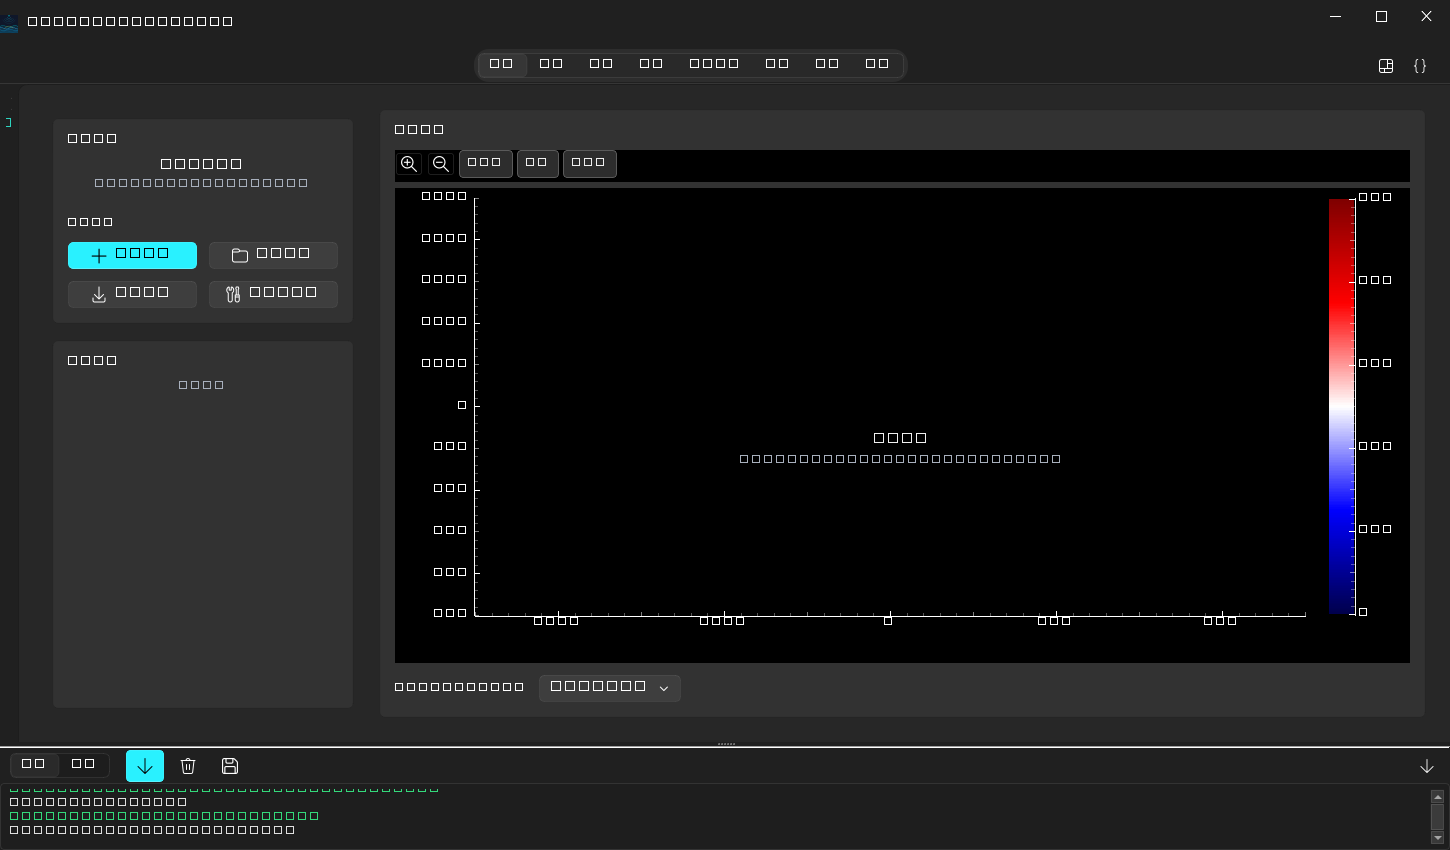
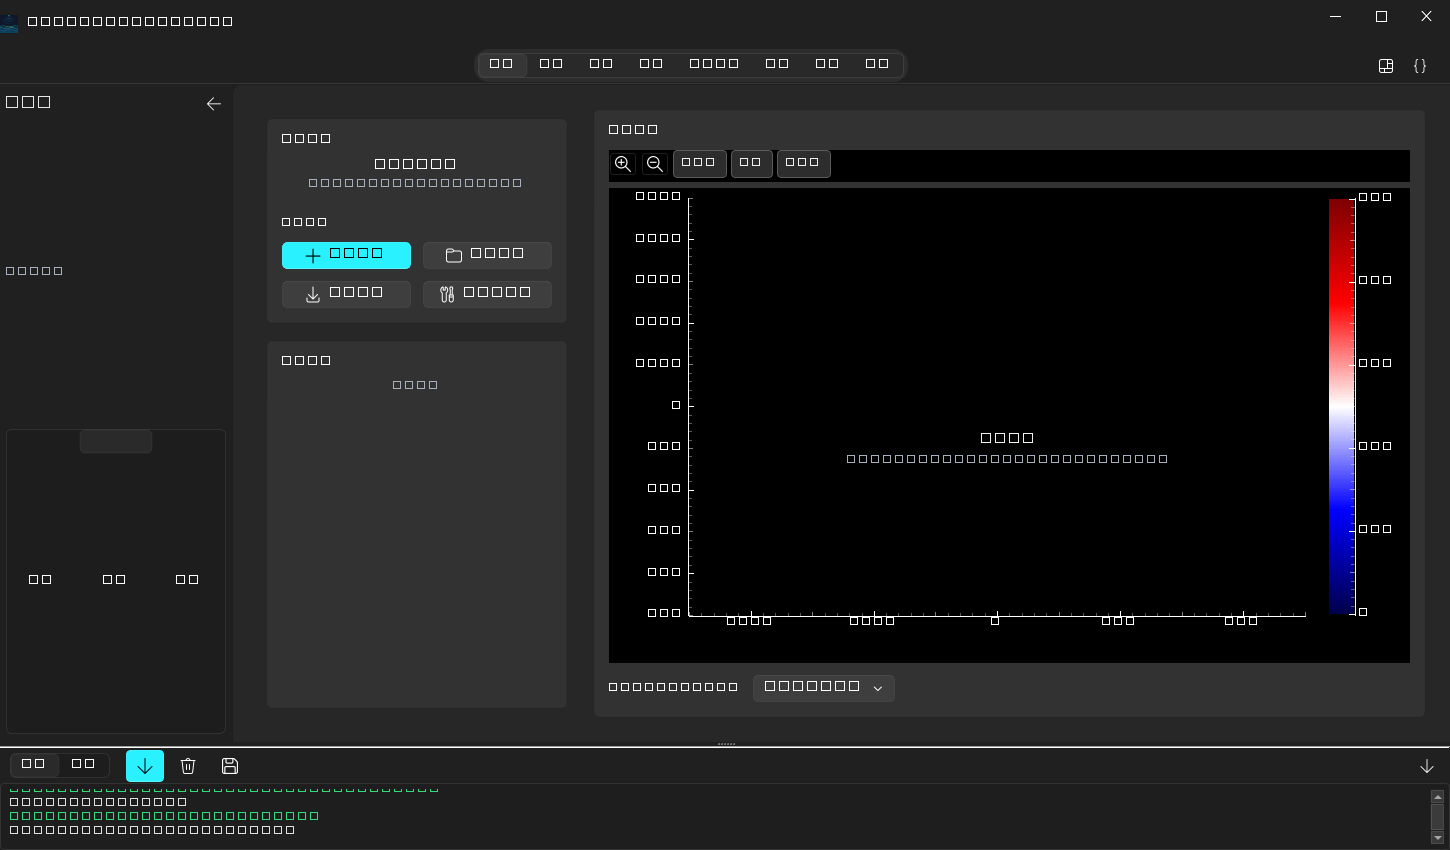
fix(bscan): 默认显示比例 square→free，消除画布大片留白
用户报告「bscan 目前总是有很多占空的地方」。实测三种比例模式，发现
square 是留白根源，且它连「保真」都做不到：

  square  数据占画布 43.3%（留白 56.7%），x/y 拉伸比 0.50
  free    数据占画布 85.9%（留白 14.1%），x/y 拉伸比 1.09
  cell    数据占画布 93.7%（留白  6.3%）

square 把 4:1 的真实剖面强行压成 1:1，双曲线形状失真——在「占空」与
「保真」两项都最差。旧注释「B-Scan 习惯方形比例」是想当然，量出来站不住。

改动：
- BScanView 默认 default_aspect 改 'free'，并注明实测数据；
- 新增 set_aspect_mode()/aspect_mode() 与 sig_aspect_changed 信号；
  三处 fit 方法加 notify 参数，用户切换才发射（数据驱动重排不发射）；
- 工具条比例钮加「当前生效」高亮（加粗 + 强调色），一眼看出是哪种；
- 新增设置键 bscan_aspect_mode，默认 free；
- 恢复/持久化集中在 main_window._wire_bscan_aspect（四页共用，避免漏页）；
  恢复与数据重排均 notify=False，杜绝「读设置→写设置」回环；
- PanelStateMixin 补 _persist_setting/_restore_setting 通用 helper，
  收敛各页重复的写盘逻辑；
- 新增 tests/test_bscan_aspect.py 锁定默认值、切换 API 与信号时机（13 项）；
- docs/ui-style.md 记录三模式实测表与持久化规则；
- 重新生成 18 张文档截图（B-Scan 显示已变，旧图作废）。

验证：ruff 通过；全量 970 passed / 6 skipped；--smoke 9 张通过；
持久化全链路探针（默认 free → 切换写盘 → 重开恢复 → 无回环）全部 OK。

diff --git a/ui/widgets/bscan_view.py b/ui/widgets/bscan_view.py
@@ -28,7 +28,7 @@ from PyQt6.QtWidgets import QLabel
 from qfluentwidgets import FluentIcon as FIF, PushButton, ToolButton
 
 from ui import constants
-from ui.theme_helpers import control_palette
+from ui.theme_helpers import accent_color, control_palette
 from ui.widgets._colormap_data import COLORMAP_DATA
 from ui.widgets.context_menus import (RoundMenu, add_action,
                                       add_checkable_submenu, make_menu)
@@ -134,16 +134,21 @@ class BScanView(GraphicsViewBase, QWidget):
 
     sig_point_picked = pyqtSignal(int, int)
     sig_colormap_changed = pyqtSignal(str)
+    # 用户手动切换显示比例时发射（'free'/'square'/'cell'），页面据此持久化
+    sig_aspect_changed = pyqtSignal(str)
 
     def __init__(self, parent=None, *, with_colorbar: bool = True,
-                 default_aspect: str = 'square'):
+                 default_aspect: str = 'free'):
         super().__init__(parent)
         self._pick_enabled = False
         self._image_shape = None  # (traces, samples) 显示坐标系尺寸
-        # 显示比例策略：'square' 近似方形（默认，B-Scan 习惯比例）/
-        # 'free' 拉伸铺满 / 'cell' 数据格 1:1
+        # 显示比例策略：'free' 拉伸铺满（默认——实测占空比 85.9%，x/y 拉伸比
+        # 1.09 几乎不畸变）/ 'square' 数据盒锁正方形（占空比仅 43.3%，且把
+        # 4:1 的真实剖面压成 1:1、双曲线形状失真）/ 'cell' 数据格 1:1。
+        # 旧默认 'square' 是"B-Scan 习惯比例"的想当然，实测两项指标都最差，
+        # 2026-09-22 改默认为 'free'；方形仍保留在工具条/右键菜单随时可切。
         self._aspect_mode = default_aspect if default_aspect in (
-            'square', 'free', 'cell') else 'square'
+            'square', 'free', 'cell') else 'free'
         self._cmap_name = constants.DEFAULT_COLORMAP
         # 十字光标读数状态（PreviewBundle 物理轴元数据）
         self._crosshair_on = True
@@ -234,6 +239,8 @@ class BScanView(GraphicsViewBase, QWidget):
 
         self._glw.scene().sigMouseClicked.connect(self._on_mouse_clicked)
         self._glw.scene().sigMouseMoved.connect(self._on_mouse_moved)
+        # 工具条按钮的当前生效态（构造期就同步一次，不等首次点击）
+        self._sync_aspect_buttons(self._aspect_mode)
         from qfluentwidgets import isDarkTheme
         self.apply_theme(isDarkTheme())
 
@@ -256,13 +263,15 @@ class BScanView(GraphicsViewBase, QWidget):
         layout.addWidget(self._zoom_out_btn)
 
         self._fit_btn = PushButton('自适应', self)
-        self._fit_btn.setToolTip('拉伸铺满窗口')
+        self._fit_btn.setToolTip('拉伸铺满窗口（默认，不浪费画布且几乎不畸变）')
         self._fit_btn.setMinimumHeight(constants.BTN_HEIGHT)
         self._fit_btn.clicked.connect(self.fit_to_data)
         layout.addWidget(self._fit_btn)
 
         self._square_btn = PushButton('方形', self)
-        self._square_btn.setToolTip('图像整体按近似正方形显示（B-Scan 常用比例）')
+        self._square_btn.setToolTip(
+            '整个数据盒锁成正方形（会把 4:1 的剖面压成 1:1，形状失真；'
+            '仅在与旧图对照时使用）')
         self._square_btn.setMinimumHeight(constants.BTN_HEIGHT)
         self._square_btn.clicked.connect(self.fit_square)
         layout.addWidget(self._square_btn)
@@ -276,9 +285,21 @@ class BScanView(GraphicsViewBase, QWidget):
         self._toolbar_buttons = (self._zoom_in_btn, self._zoom_out_btn,
                                  self._fit_btn, self._square_btn,
                                  self._one_to_one_btn)
+        # 比例按钮的"当前生效"态：加粗 + 强调色，一眼看出现在是哪种
+        self.sig_aspect_changed.connect(self._sync_aspect_buttons)
 
         layout.addStretch(1)
         return layout
+
+    def _sync_aspect_buttons(self, mode: str) -> None:
+        """按当前比例模式高亮对应按钮（三选一）。"""
+        pairs = (('free', self._fit_btn), ('square', self._square_btn),
+                 ('cell', self._one_to_one_btn))
+        for key, btn in pairs:
+            active = key == mode
+            btn.setStyleSheet(
+                f'font-weight: bold; color: {accent_color()};' if active
+                else '')
 
     # ------------------------------------------------------------------ 缩放 / 导出
     def _export_grab_target(self):
@@ -288,51 +309,84 @@ class BScanView(GraphicsViewBase, QWidget):
     def _fit_view(self) -> None:
         self.fit_to_data()
 
-    def fit_to_data(self) -> None:
+    def aspect_mode(self) -> str:
+        """当前比例策略：'free' / 'square' / 'cell'。"""
+        return self._aspect_mode
+
+    def set_aspect_mode(self, mode: str, *, notify: bool = False) -> None:
+        """按名切换比例策略（外部恢复持久化设置用）。
+
+        :param notify: True 时发 sig_aspect_changed（供页面写回设置）；
+            恢复阶段应传 False，避免"读设置→写设置"回环。
+        """
+        if mode == 'free':
+            self.fit_to_data(notify=notify)
+        elif mode == 'cell':
+            self.reset_1to1(notify=notify)
+        elif mode == 'square':
+            self.fit_square(notify=notify)
+
+    def fit_to_data(self, *, notify: bool = True) -> None:
         """自适应窗口：显示全部数据（解除纵横锁定，拉伸铺满）。"""
         self._aspect_mode = 'free'
         self._plot.vb.setAspectLocked(False)
         self._plot.vb.autoRange()
+        if notify:
+            self.sig_aspect_changed.emit('free')
 
-    def fit_square(self) -> None:
+    def fit_square(self, *, notify: bool = True) -> None:
         """近似方形显示：锁定纵横比，使数据包围盒在屏幕上接近正方形。
 
         pyqtgraph setAspectLocked 的 ratio 是「一个 x 单位在屏幕上的宽度 /
         一个 y 单位在屏幕上的高度」。数据盒宽 n_traces、高 n_samples，
         要让它显示为正方形：n_traces * ratio = n_samples → ratio = 高/宽。
+
+        注意：本模式会把整个数据盒拉成正方形，与数据自身的长宽比无关——
+        真实的 4:1 剖面会被横向压缩 4 倍，双曲线形状失真。仅作对照用，
+        默认已改为 'free'（见 __init__ 注释）。
         """
         self._aspect_mode = 'square'
         if self._image_shape is None:
             self._plot.vb.setAspectLocked(False)
             self._plot.vb.autoRange()
-            return
-        n_traces, n_samples = self._image_shape
-        vb = self._plot.vb
-        vb.setAspectLocked(False)
-        vb.setRange(xRange=(0, n_traces), yRange=(0, n_samples), padding=0.02)
-        vb.setAspectLocked(True, ratio=float(n_samples) / max(float(n_traces), 1.0))
+        else:
+            n_traces, n_samples = self._image_shape
+            vb = self._plot.vb
+            vb.setAspectLocked(False)
+            vb.setRange(xRange=(0, n_traces), yRange=(0, n_samples),
+                        padding=0.02)
+            vb.setAspectLocked(
+                True, ratio=float(n_samples) / max(float(n_traces), 1.0))
+        if notify:
+            self.sig_aspect_changed.emit('square')
 
-    def reset_1to1(self) -> None:
+    def reset_1to1(self, *, notify: bool = True) -> None:
         """恢复像素 1:1 显示（x/y 轴等比例）。"""
         self._aspect_mode = 'cell'
         if self._image_shape is None:
             self._plot.vb.setAspectLocked(False)
             self._plot.vb.autoRange()
-            return
-        n_traces, n_samples = self._image_shape
-        self._plot.vb.setRange(
-            xRange=(0, n_traces), yRange=(0, n_samples), padding=0.0)
-        self._plot.vb.setAspectLocked(True, ratio=1.0)
+        else:
+            n_traces, n_samples = self._image_shape
+            self._plot.vb.setRange(
+                xRange=(0, n_traces), yRange=(0, n_samples), padding=0.0)
+            self._plot.vb.setAspectLocked(True, ratio=1.0)
+        if notify:
+            self.sig_aspect_changed.emit('cell')
 
     def _fit_current_mode(self) -> None:
-        """按当前比例策略铺满视野（新数据到达时调用，不重置用户选择）。"""
-        if self._aspect_mode == 'free':
-            self._plot.vb.setAspectLocked(False)
-            self._plot.vb.autoRange()
-        elif self._aspect_mode == 'cell':
-            self.reset_1to1()
+        """按当前比例策略铺满视野（新数据到达时调用，不重置用户选择）。
+
+        notify=False：这是数据驱动重排，不是用户切换，不该触发持久化。
+        """
+        # 注意三个分支都直接置 _aspect_mode 后铺满，不重复发信号
+        mode = self._aspect_mode
+        if mode == 'free':
+            self.fit_to_data(notify=False)
+        elif mode == 'cell':
+            self.reset_1to1(notify=False)
         else:
-            self.fit_square()
+            self.fit_square(notify=False)
 
     # ------------------------------------------------------------------ 数据
     def set_bundle(self, bundle) -> None:

diff --git a/tests/test_bscan_aspect.py b/tests/test_bscan_aspect.py
@@ -1,0 +1,112 @@
+# -*- coding: utf-8 -*-
+"""B-Scan 显示比例策略测试（offscreen 控件 + 设置持久化）。
+
+背景（2026-09-22）：用户报告「bscan 目前总是有很多占空的地方」。实测三种
+比例模式的数据占画布面积比：
+
+    square  43.3%（留白 56.7%，x/y 拉伸比 0.50 → 把 4:1 剖面压成 1:1）
+    free    85.9%（留白 14.1%，x/y 拉伸比 1.09 → 几乎不畸变）
+    cell    93.7%（留白  6.3%）
+
+旧默认 'square' 在「占空」与「保真」两项都最差，故改为 'free'。本文件锁定
+该默认值与三模式切换 API，防止后续重构悄悄改回。
+"""
+from __future__ import annotations
+
+import os
+
+os.environ.setdefault('QT_QPA_PLATFORM', 'offscreen')
+
+import pytest
+
+pytest.importorskip("PyQt6")  # 后端 CI（无 Qt）自动跳过
+
+from ui.widgets.bscan_view import BScanView  # noqa: E402
+
+
+@pytest.fixture
+def view(qapp):
+    v = BScanView()
+    yield v
+    v.close()
+
+
+class TestDefaultAspect:
+    """默认比例必须铺满（回归防护：改回 square 会让用户重新看到大片留白）。"""
+
+    def test_default_is_free(self, view):
+        assert view.aspect_mode() == 'free'
+
+    def test_default_not_square(self, view):
+        assert view.aspect_mode() != 'square', (
+            'square 占空比仅 43.3%（free 85.9%），不应作为默认')
+
+    def test_explicit_default_respected(self, qapp):
+        v = BScanView(default_aspect='square')
+        assert v.aspect_mode() == 'square'
+        v.close()
+
+    def test_illegal_default_falls_back_to_free(self, qapp):
+        v = BScanView(default_aspect='nonsense')
+        assert v.aspect_mode() == 'free'
+        v.close()
+
+
+class TestSetAspectMode:
+    """按名切换 API：三模式各归位，非法名不改动现状。"""
+
+    @pytest.mark.parametrize('mode', ['free', 'square', 'cell'])
+    def test_roundtrip(self, view, mode):
+        view.set_aspect_mode(mode)
+        assert view.aspect_mode() == mode
+
+    def test_illegal_mode_is_noop(self, view):
+        view.set_aspect_mode('square')
+        view.set_aspect_mode('bogus')
+        assert view.aspect_mode() == 'square'
+
+
+class TestAspectSignal:
+    """sig_aspect_changed：用户切换发射、数据驱动重排不发射。"""
+
+    def test_user_switch_emits(self, view):
+        seen = []
+        view.sig_aspect_changed.connect(seen.append)
+        view.fit_square()
+        view.fit_to_data()
+        view.reset_1to1()
+        assert seen == ['square', 'free', 'cell']
+
+    def test_restore_does_not_emit(self, view):
+        """恢复持久化设置时必须 notify=False，否则「读设置→写设置」回环。"""
+        seen = []
+        view.sig_aspect_changed.connect(seen.append)
+        view.set_aspect_mode('square', notify=False)
+        assert seen == []
+        assert view.aspect_mode() == 'square'
+
+    def test_data_driven_refit_does_not_emit(self, view):
+        """新数据到达时的重排属于数据驱动，不该触发持久化写盘。"""
+        import numpy as np
+        seen = []
+        view.sig_aspect_changed.connect(seen.append)
+        view.set_matrix(np.random.rand(80, 160).astype('float32'), 0.0, 1.0)
+        assert seen == []
+        assert view.aspect_mode() == 'free'
+
+
+class TestAspectPersistence:
+    """设置键 bscan_aspect_mode 的默认值与合法性。"""
+
+    def test_settings_key_default(self, tmp_path):
+        from ui.settings_manager import SettingsManager
+        sm = SettingsManager(str(tmp_path / 's.json'))
+        assert sm.get('bscan_aspect_mode') == 'free'
+
+    def test_settings_roundtrip(self, tmp_path):
+        from ui.settings_manager import SettingsManager
+        path = str(tmp_path / 's.json')
+        sm = SettingsManager(path)
+        sm.set('bscan_aspect_mode', 'square')
+        sm.save()
+        assert SettingsManager(path).get('bscan_aspect_mode') == 'square'

diff --git a/ui/main_window.py b/ui/main_window.py
@@ -29,6 +29,7 @@ from ui.page_coordinator import PageCoordinator
 from ui.logger_config import setup_logger
 from ui.settings_manager import SettingsManager
 from ui.theme_helpers import apply_theme, control_palette
+from ui.widgets.bscan_view import BScanView
 from ui.widgets.file_tree_panel import FileTreePanel
 from ui.widgets.segment_tabs import SlimSegment
 
@@ -243,9 +244,32 @@ class MyGPRMainWindow(FluentWindow):
         # 互相覆盖（共享实例是唯一写者）
         if hasattr(page, 'set_settings_manager'):
             page.set_settings_manager(self.settings)
+        # B-Scan 显示比例：四页都有 BScanView，统一在此恢复/持久化，
+        # 避免在四个页面里各写一遍（漏一个就是"某页记不住"）
+        self._wire_bscan_aspect(page)
         page.setObjectName(object_name)
         self.addSubInterface(page, icon, text, position=position)
         self.pages[object_name] = page
+
+    def _wire_bscan_aspect(self, page) -> None:
+        """把页面内所有 BScanView 的比例模式接到持久化设置（跨会话记住）。"""
+        key = 'bscan_aspect_mode'
+        views = page.findChildren(BScanView)
+        if not views:
+            return
+        saved = str(self.settings.get(key, 'free') or 'free')
+        if saved not in ('free', 'square', 'cell'):
+            saved = 'free'
+        for view in views:
+            # 恢复阶段 notify=False：避免"读设置 → 写设置"回环
+            view.set_aspect_mode(saved, notify=False)
+            view.sig_aspect_changed.connect(
+                lambda mode, k=key: self._persist_aspect_mode(k, mode))
+
+    def _persist_aspect_mode(self, key: str, mode: str) -> None:
+        """用户切换 B-Scan 比例后写盘（共享 SettingsManager 唯一写者）。"""
+        self.settings.set(key, str(mode))
+        self.settings.save()
 
     # ---------------------------------------------------------- 首屏后预热
     def _start_warmup(self) -> None:

diff --git a/ui/page_scaffold.py b/ui/page_scaffold.py
@@ -420,3 +420,23 @@ class PanelStateMixin:
         finally:
             self._left_panel.blockSignals(False)
             self._right_panel.blockSignals(False)
+
+    # ------------------------------------------------------------ 通用设置读写
+    def _persist_setting(self, key: str, value) -> None:
+        """写单个设置项：共享实例为唯一写者；未注入（单元测试）时静默跳过。
+
+        各页曾各自复制这段逻辑；收敛到 mixin 单源，避免"某页忘了判 None"
+        或"某页忘了 save"这类不一致。
+        """
+        sm = self._sm
+        if sm is None:
+            return
+        sm.set(key, value)
+        sm.save()
+
+    def _restore_setting(self, key: str, default=None):
+        """读单个设置项；未注入时返回 default（不读盘）。"""
+        sm = self._sm
+        if sm is None:
+            return default
+        return sm.get(key, default)

diff --git a/ui/settings_manager.py b/ui/settings_manager.py
@@ -26,6 +26,8 @@ DEFAULT_SETTINGS = {
     'processing_right_collapsed': False,                 # 处理页右栏折叠状态
     'output_panel_open': False,                          # 底部输出面板默认收起（用者自开）
     'output_panel_active_tab': 'log',                    # 输出面板当前页签：log / jobs
+    # B-Scan 显示比例：free 拉伸铺满（默认）/ square 数据盒正方形 / cell 数据格1:1
+    'bscan_aspect_mode': 'free',                         # 用户切换后跨会话记住（见 BScanView）
     'spatial_basemap_source': 'gaode_img',               # 空间页底图源（与 map_tiles.DEFAULT_TILE_SOURCE 一致）
     'spatial_terrain_source': 'online',                  # 三维地形来源：online / estimated / local_dem
     'spatial_left_collapsed': False,                     # 空间页左栏折叠状态
